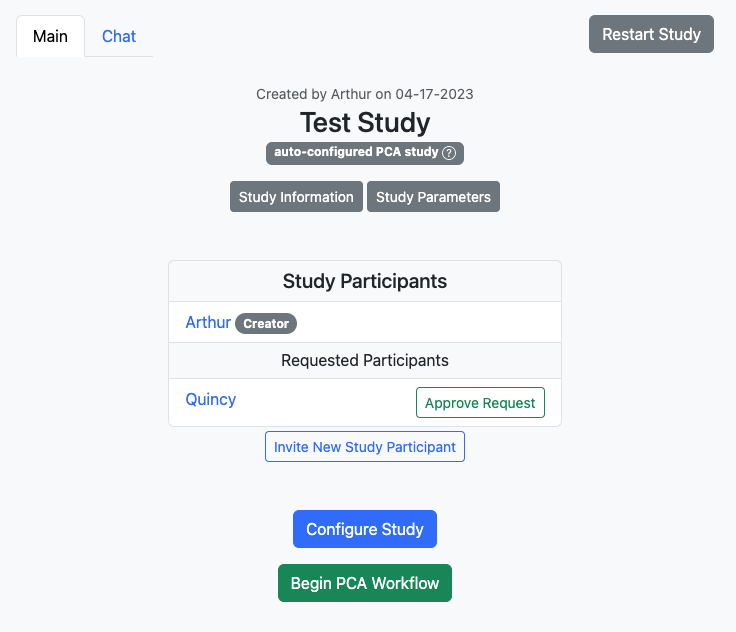
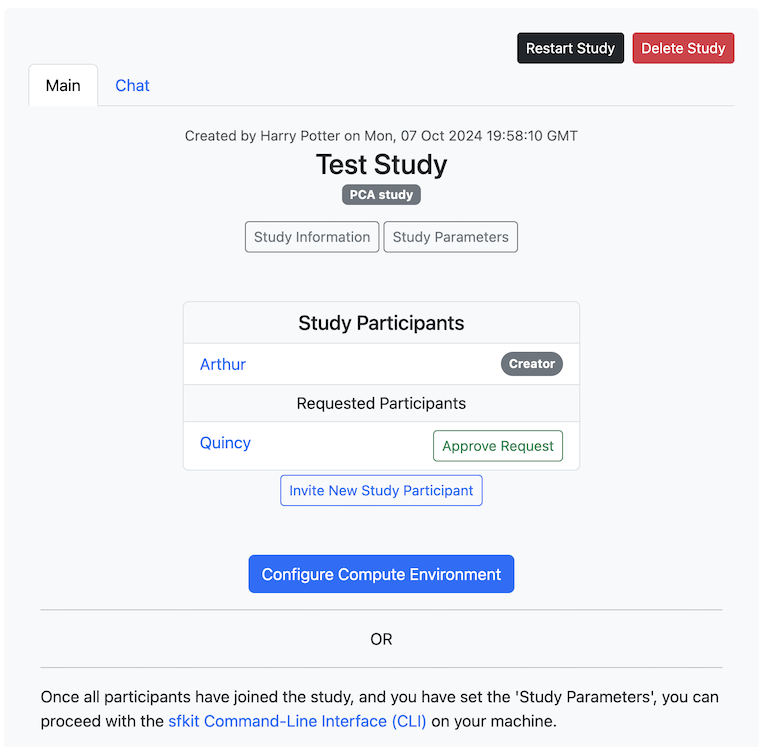
Update approve_request screenshot for Tutorial 2

diff --git a/src/components/tutorials/SetUpYourStudySection.tsx b/src/components/tutorials/SetUpYourStudySection.tsx
@@ -127,7 +127,7 @@ const SetUpYourStudySection: React.FC<SectionProps> = ({ activeTab, setActiveTab
           <p>
             Then both users will follow the instructions to{" "}
             <button className="btn btn-primary btn-sm" style={{ pointerEvents: "none" }}>
-              Configure Study
+              Configure Compute Environment
             </button>
             . Note that this will require the users to use their own GCP projects, in contrast to the first tutorial.
             (If you choose to use GCP's free trial, you can{" "}
